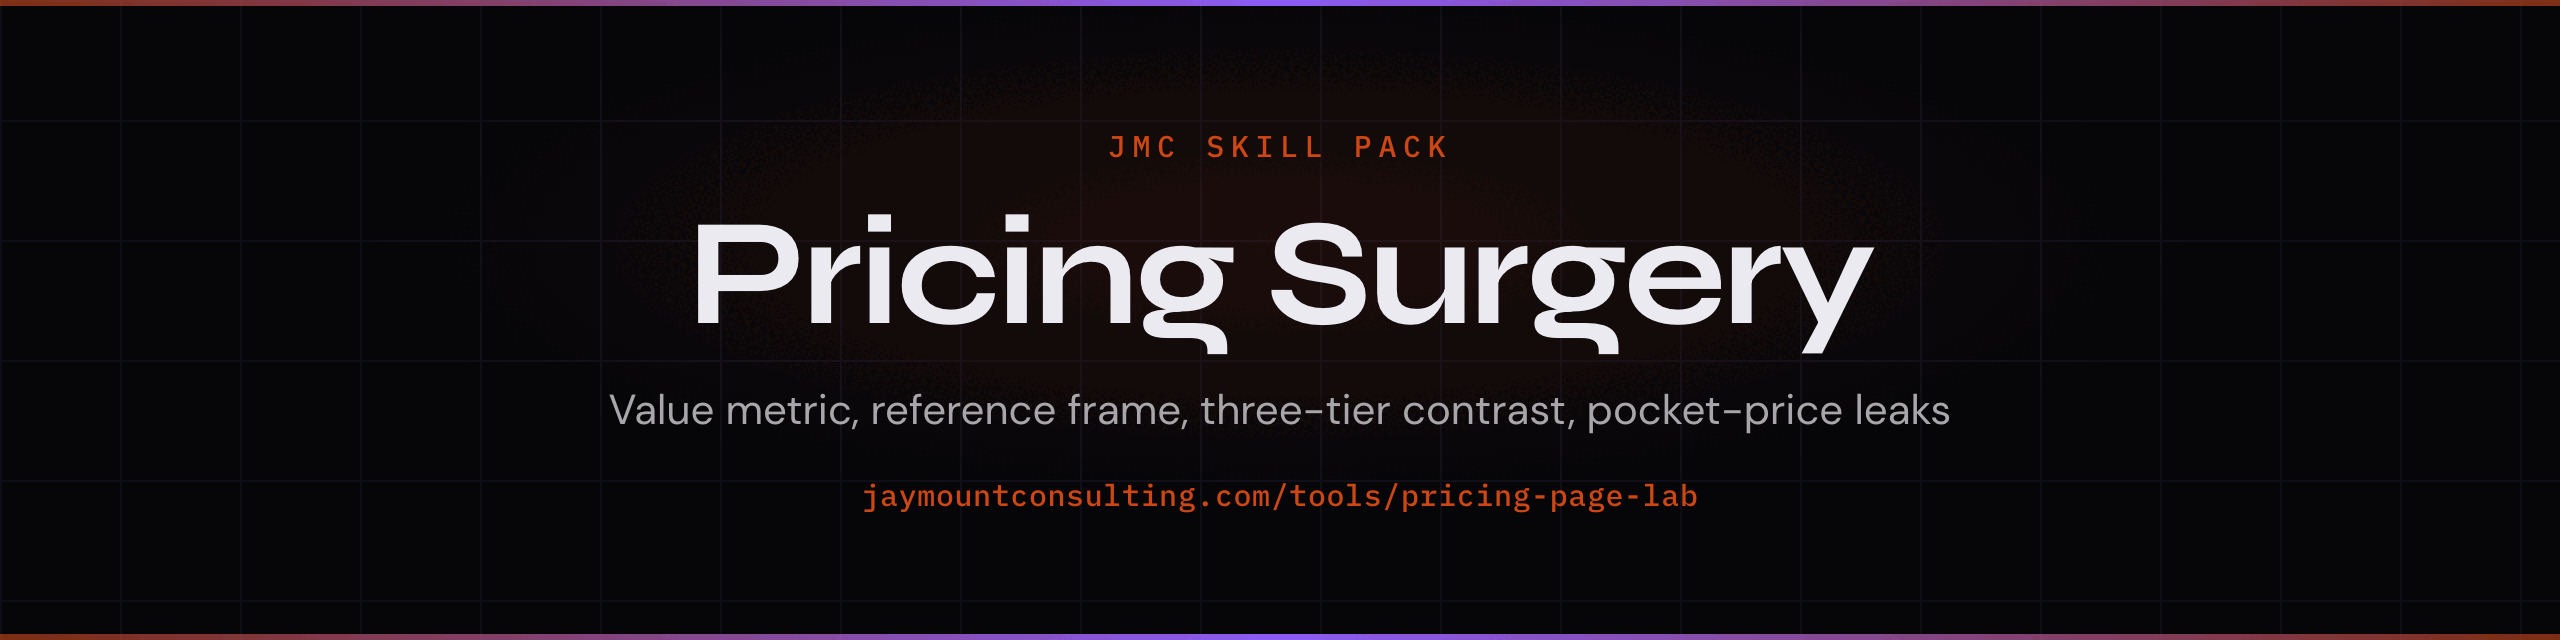
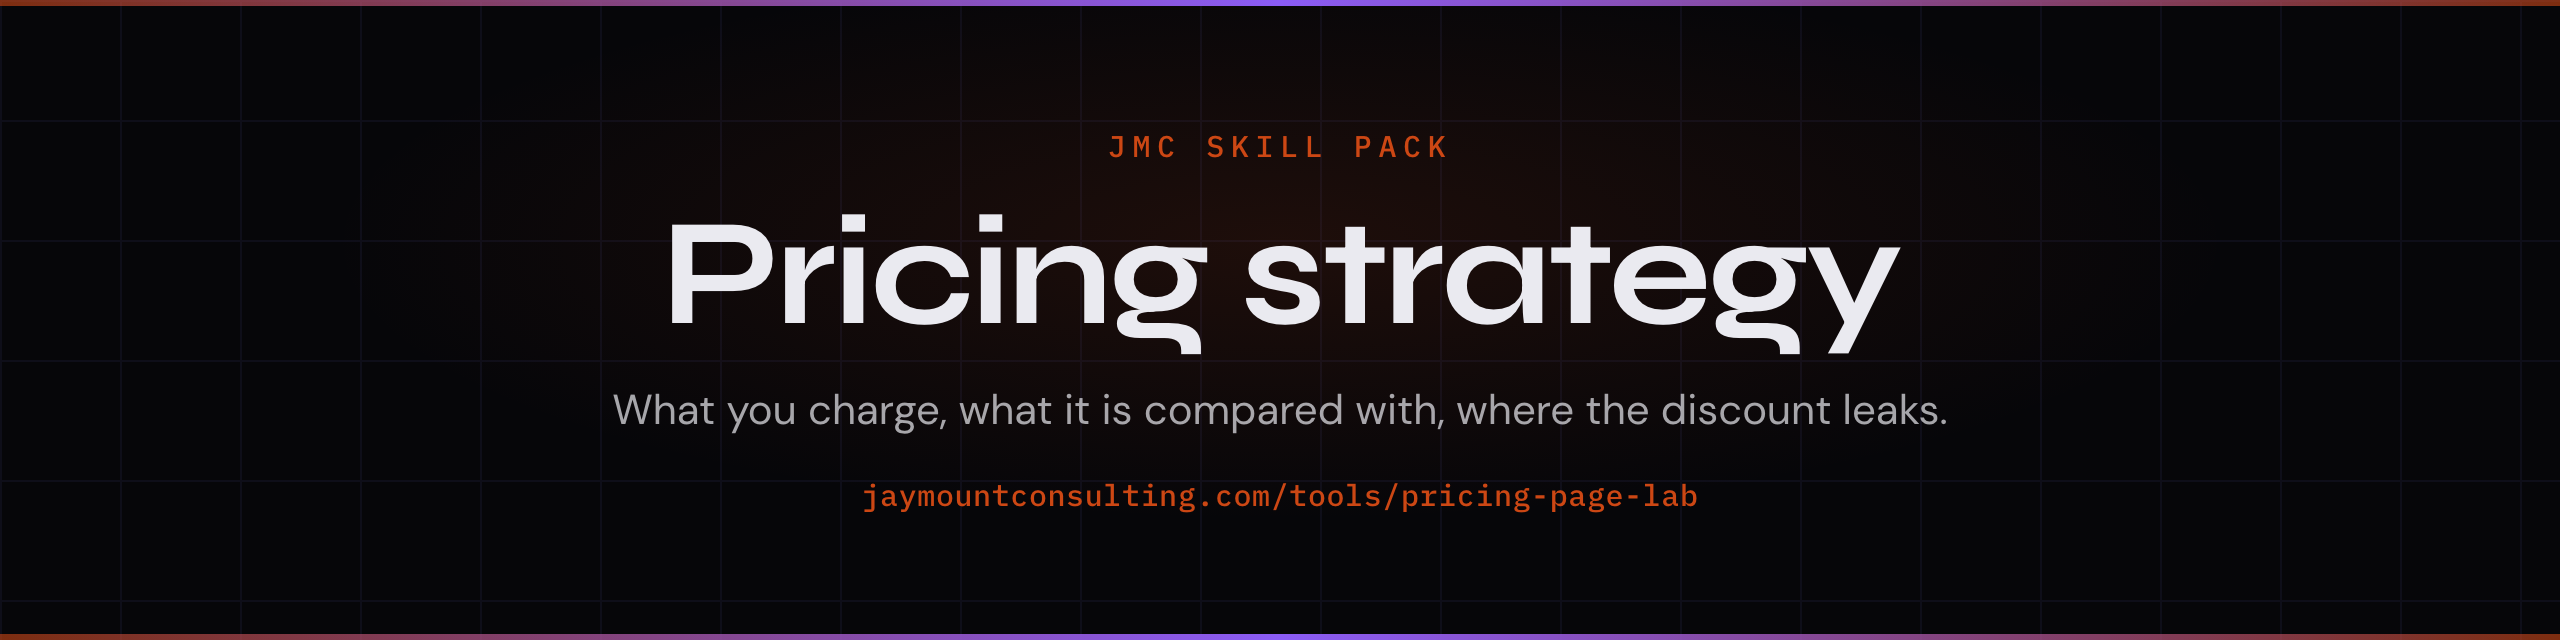
docs(assets): put the search phrase on the card and demo
Header, social card, and demo now use the search phrase and the scores already printed in the README.

Changed region(s): [[0.25, 0.3125, 0.75, 0.5625], [0.2188, 0.625, 0.7812, 0.6875]]

diff --git a/README.md b/README.md
@@ -24,7 +24,7 @@ The build guide teaches the framework to a human. This pack teaches the same fra
 ![Install](https://img.shields.io/badge/install-npx%20skills-blue)
 
 <p align="center">
-  <img src="./assets/demo.gif" alt="claude-pricing — decoy validator on a healthy three-tier set versus a broken two-tier set" width="100%">
+  <img src="./assets/demo.gif" alt="Pricing strategy skill — healthy tiers 100, broken tiers 10.5" width="100%">
 </p>
 
 ## What this replaces
